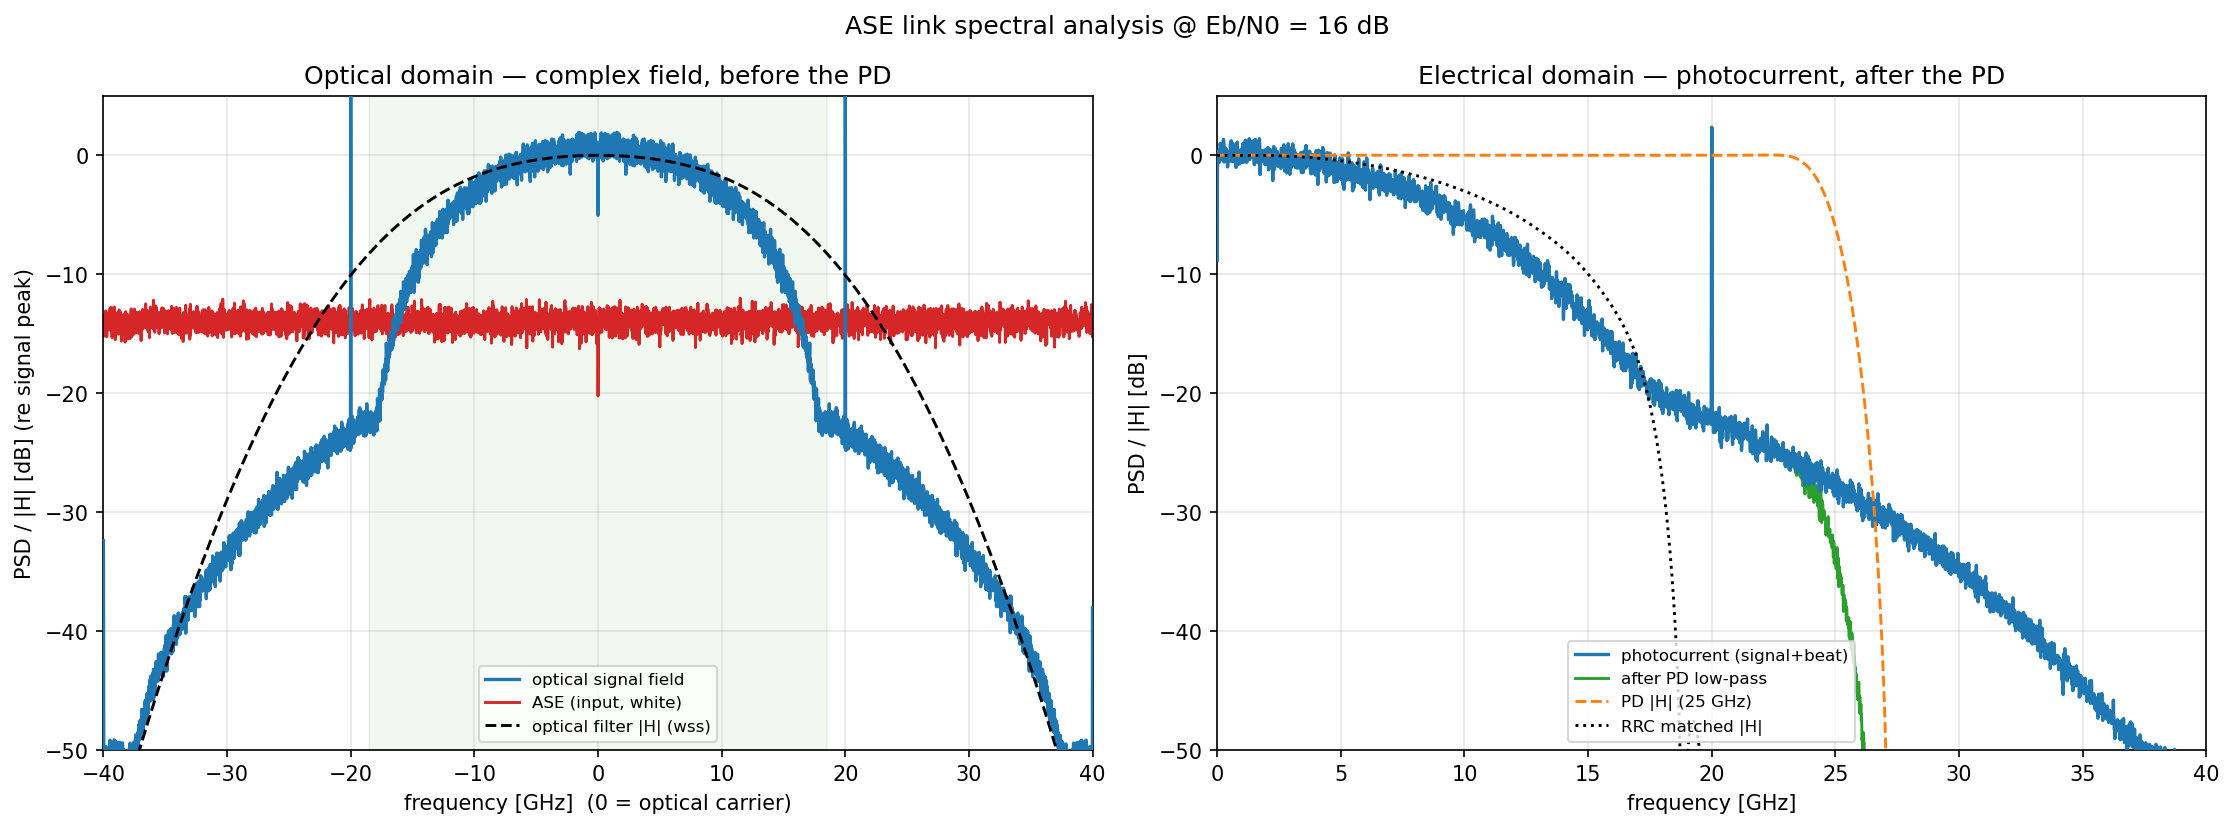
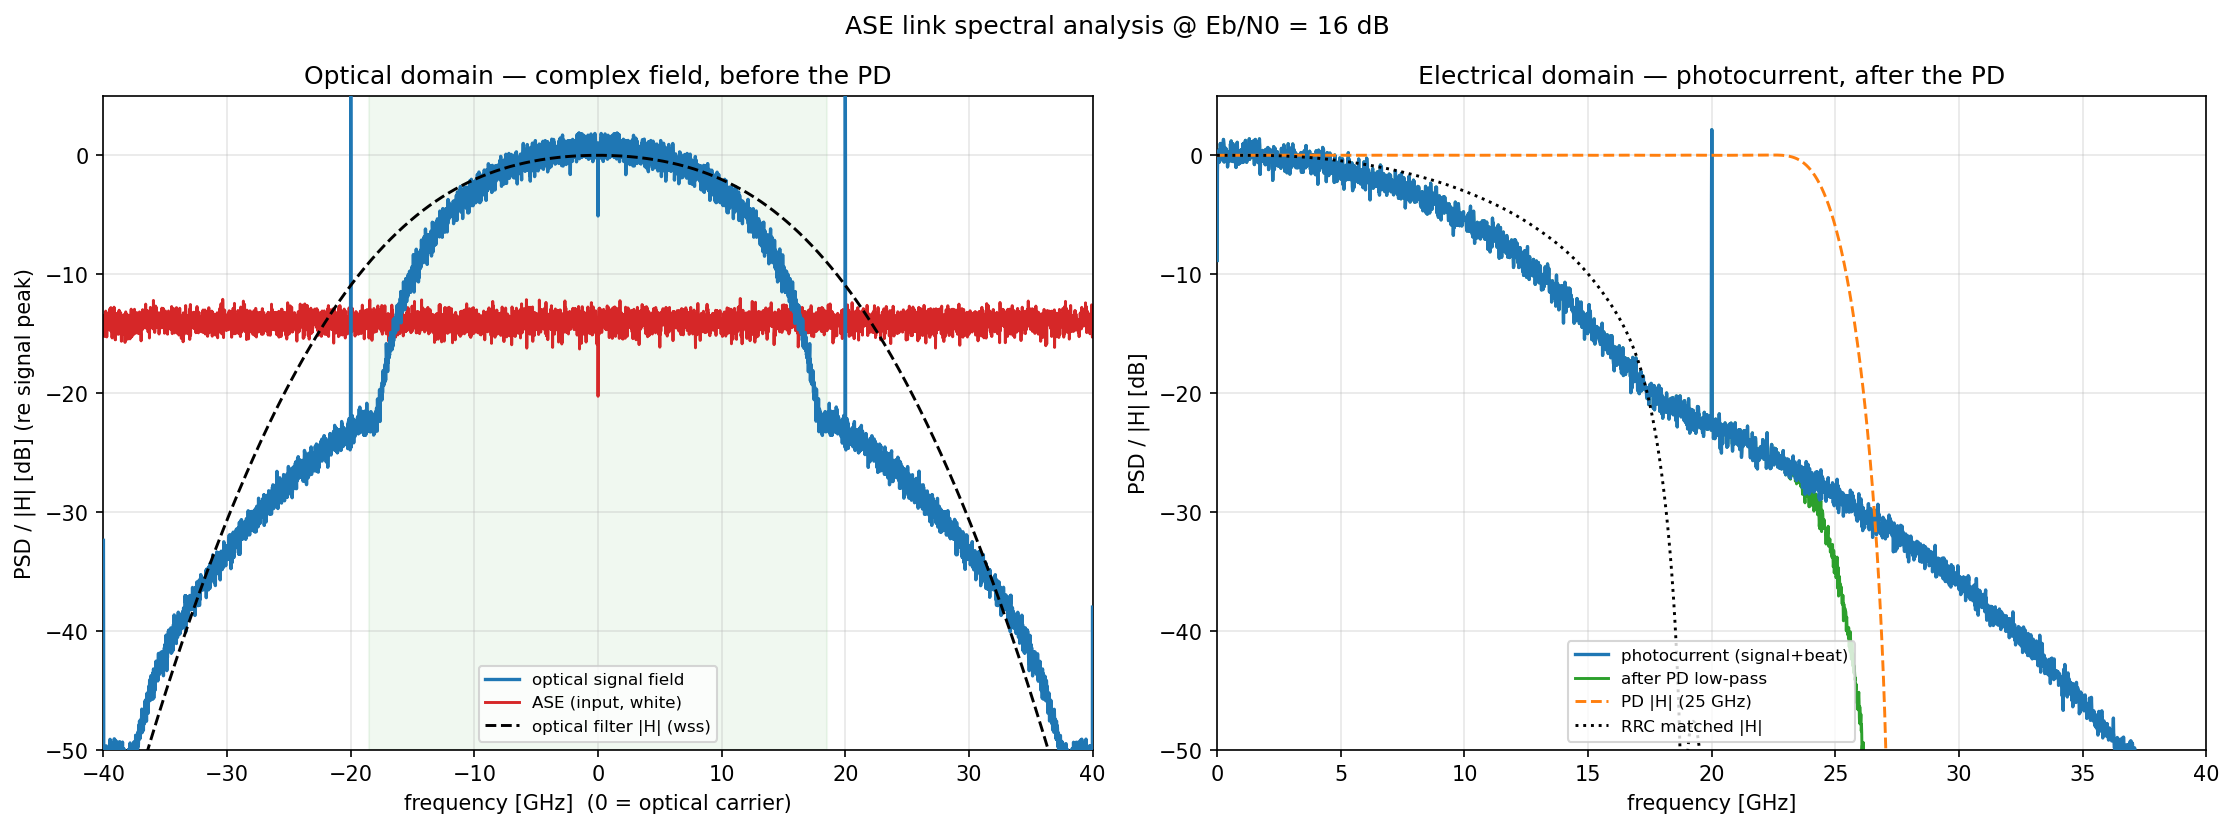
WSS optical filter: B = 1.53*Rs (Marco's value), was 1.6
Aligns the Finisar WaveShaper passband to the value Marco confirmed for the BPAM
(filt_rx.B=1.53, BWotf=18 GHz). Negligible BER change (7.5e-6 @20 dB, ~1.5e-4 @18 dB).
Regenerated the ase checkpoint + figures.

diff --git a/functions/config.py b/functions/config.py
@@ -48,8 +48,8 @@ class Config:
                                                 # group uses; worse than the ideal "matched"/A.47 bound) and
                                                 # "none" for thermal (no preamp -> no optical filter).
                                                 # Force: "wss" / "supergaussian" / "matched" / "brickwall" / "none".
-        # WSS (Finisar WaveShaper) optical filter parameters (trans_func.m 'WSS')
-        self.wss_bandpass_factor = 1.6          # optical passband full width B = factor * symbol_rate
+        # WSS (Finisar WaveShaper) optical filter parameters (trans_func.m 'WSS'; Marco's values)
+        self.wss_bandpass_factor = 1.53         # optical passband full width B = factor * symbol_rate
         self.wss_otf_bandwidth = 18e9           # OTF 3-dB bandwidth (edge sharpness), fixed at 18 GHz
         self.optical_filter_order = 4           # super-Gaussian order (only for "supergaussian" type)
 
